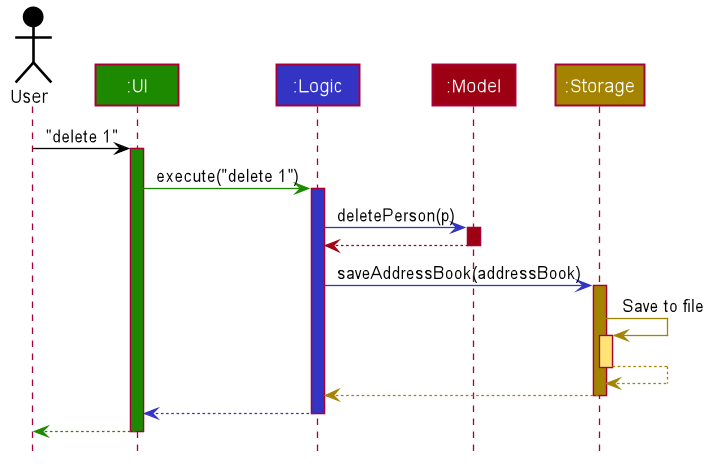
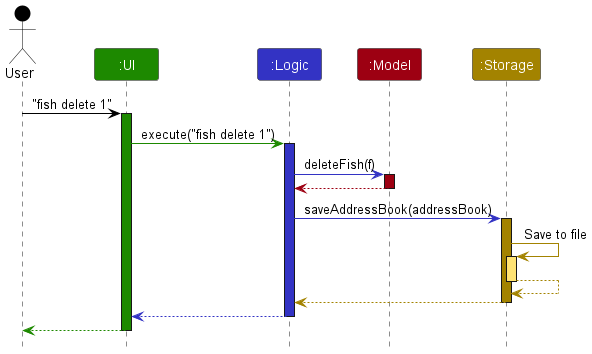
Update DG architecture sequence diagram to fish delete

diff --git a/docs/DeveloperGuide.md b/docs/DeveloperGuide.md
@@ -70,7 +70,7 @@ The rest of the App consists of four components.
 
 **How the architecture components interact with each other**
 
-The *Sequence Diagram* below shows how the components interact with each other for the scenario where the user issues the command `delete 1`.
+The *Sequence Diagram* below shows how the components interact with each other for the scenario where the user issues the command `fish delete 1`.
 
 <img src="images/ArchitectureSequenceDiagram.png" width="574" />
 
